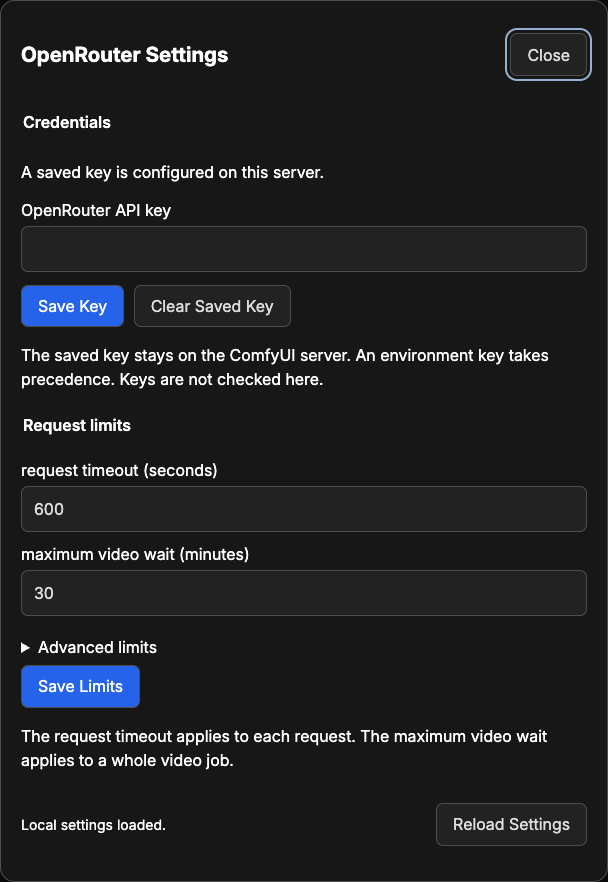
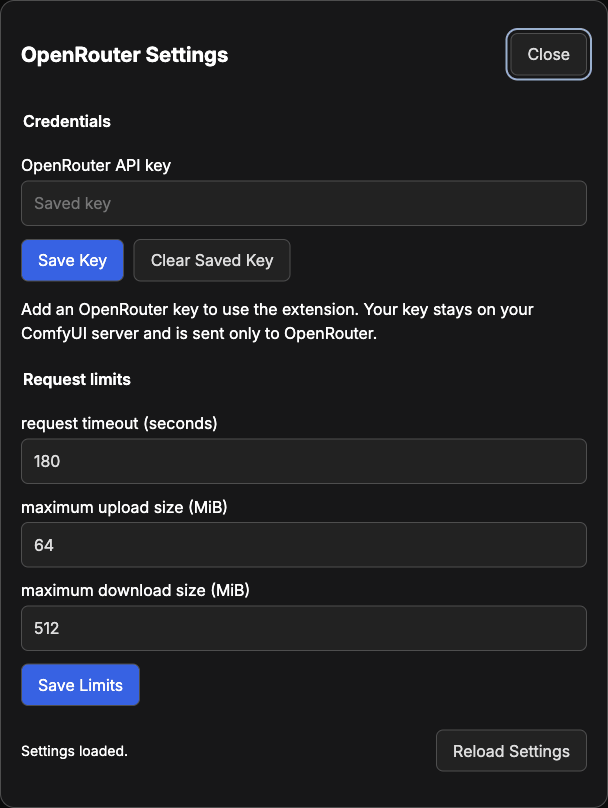
docs(docs): retake the settings dialog screenshot
- The screenshot shows the dialog's three settings at their defaults, the new key text, and the saved key placeholder.
- ADVANCED describes the screenshot without the advanced limits section it no longer has.

diff --git a/ADVANCED.md b/ADVANCED.md
@@ -411,8 +411,8 @@ The README's and this guide's images are in `docs/images/`:
   with link midpoint markers off.
 - `chat-ask-node.png` is a new **Chat: Ask** node, 420 pixels wide, at 100%
   zoom.
-- `settings-dialog.png` is the **OpenRouter settings** dialog with its advanced
-  limits closed.
+- `settings-dialog.png` is the **OpenRouter settings** dialog with default
+  settings and a saved key.
 
 Keep each image under 100 KB, and give it alt text.
 
